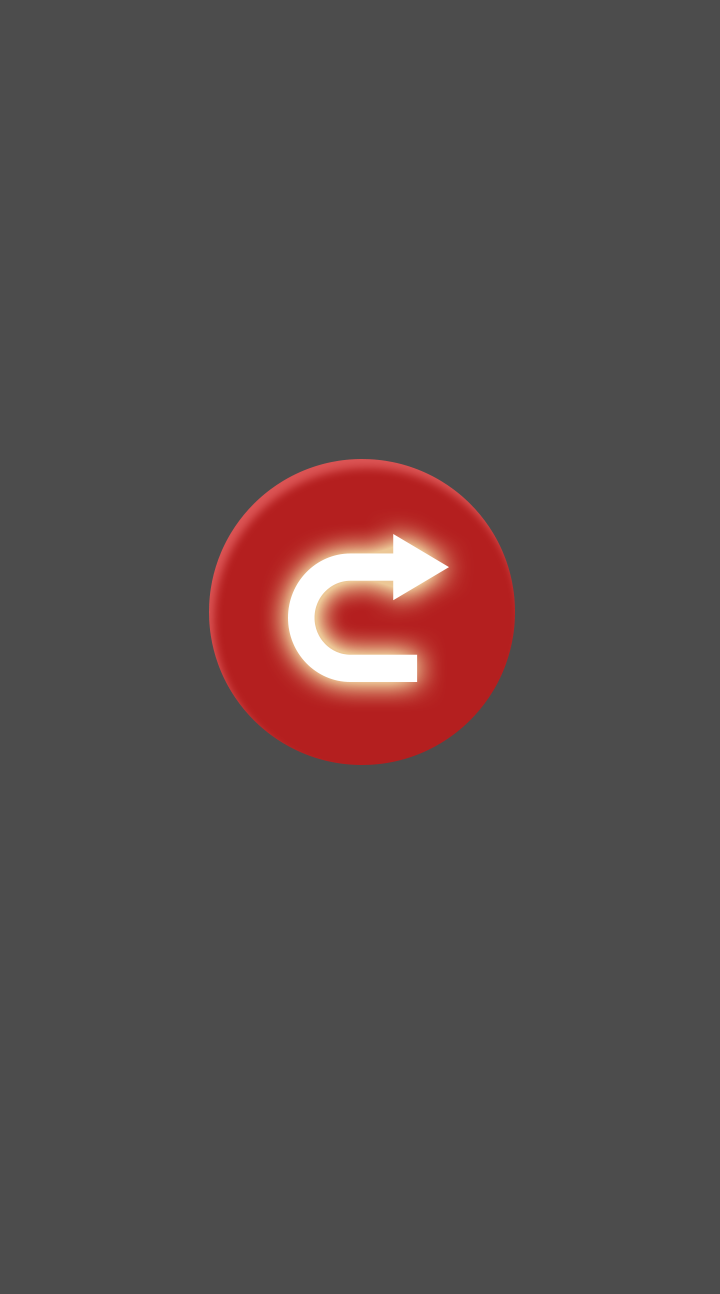
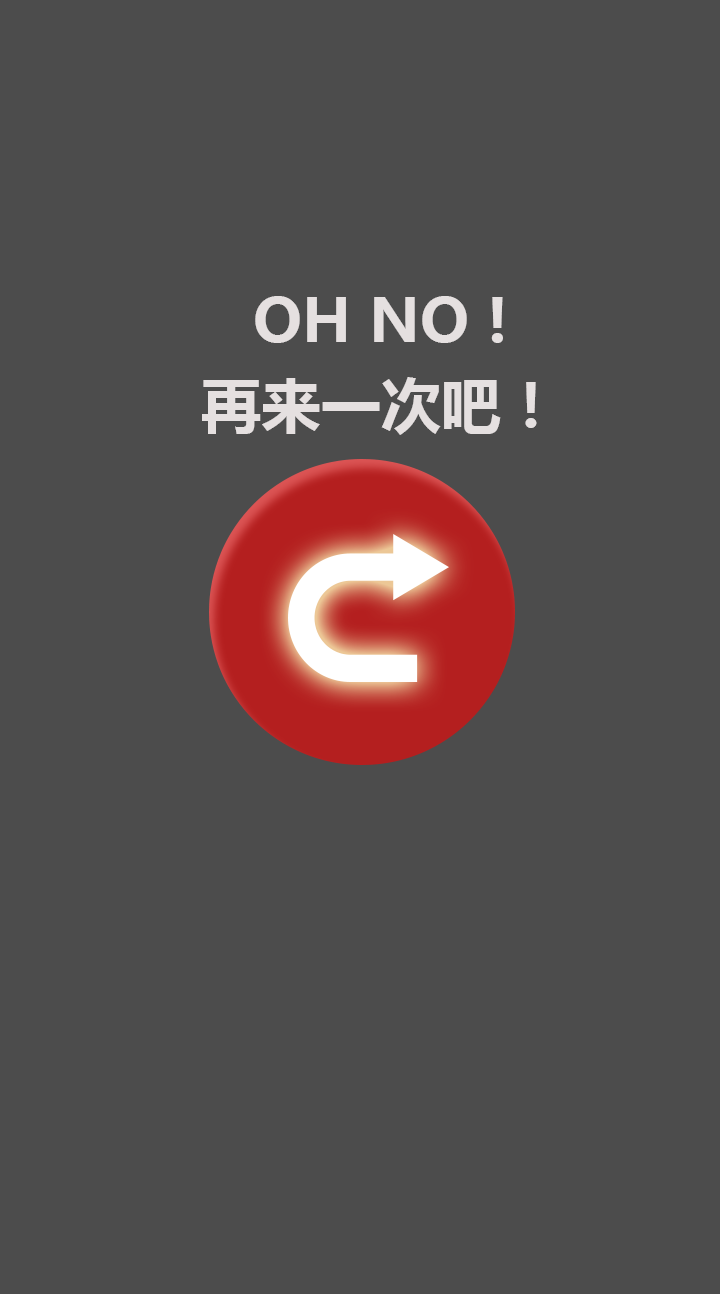
判断失败逻辑
判断失败逻辑，未完全解决，仍存在问题

Changed region(s): [[0.275, 0.2164, 0.7028, 0.34], [0.7333, 0.2782, 0.7639, 0.34]]

diff --git a/js/scene.js b/js/scene.js
@@ -139,9 +139,8 @@ var scene = new soya2d.Scene({
 
     createBalloon:function(lv){
         var _this = this;   
-
+        _this.balloons = [];
         // 保存关卡
-        console.log(lv);
         localStorage.lv = lv;
 
         _this.allStep = lv*2;
@@ -168,59 +167,61 @@ var scene = new soya2d.Scene({
             var randomRo = Math.round(Math.random()*120-60);
 
 
-            _this.balloons[i] = new soya2d.Sprite({
-                textures:balloon_tex,
-                x:randomX,
-                y:gameH*0.8,
-                w:randomW,
-                h:randomH,
-                rotation:randomRo,
-                onUpdate:function(){
-                    if(_this.gamepause == 0){
-                        this.y = this.y - gapUp;
-
-                        if(this.y < gameH*0.168*-1){
-                            _this.remove(this);
-                            _this.allStep = _this.allStep - 1
-                            _this.failballoon++;
-                            console.log('●▽● 已经有'+_this.failballoon + '个气球飞出去了 ●▽●');
-                            if(_this.allStep == 0){
-                                _this.isOver();
-                            }
-                        }
-
-                        this.rotation += rotationGap;
-                        if(this.rotation == -65){
-                            rotationGap = 0.25;
-                        }
-                        if(this.rotation == 60){
-                            rotationGap = -0.25;
-                        }
-                    }
-                    
-
-                }
-            });
-
-            
            
             (function(index){
                 index = i;
+
+                _this.balloons[index] = new soya2d.Sprite({
+                    textures:balloon_tex,
+                    x:randomX,
+                    y:gameH*0.8,
+                    w:randomW,
+                    h:randomH,
+                    rotation:randomRo,
+                    onUpdate:function(){
+                        if(_this.gamepause == 0){
+                            this.y = this.y - gapUp;
+
+                            if(this.y < gameH*0.168*-1){
+                                _this.remove(this);
+                                _this.remove(this);
+                                _this.allStep = _this.allStep - 1
+                                _this.failballoon++;
+                                console.log('●▽● 已经有'+_this.failballoon + '个气球飞出去了 ●▽●');
+
+                                if(_this.allStep == 0){
+                                    _this.isOver();
+                                }else if((_this.nowlv < 10 && _this.failballoon > 2) || (_this.failballoon > 5 && _this.nowlv < 10)){
+                                   _this.isOver();
+                                   console.log('超出了可以飘出去的气球个数');
+
+                                  
+                                }
+                            }
+
+                            this.rotation += rotationGap;
+                            if(this.rotation == -65){
+                                rotationGap = 0.25;
+                            }
+                            if(this.rotation == 60){
+                                rotationGap = -0.25;
+                            }
+                        }
+                        
+
+                    }
+                });
                  _this.balloons[index].on(tap,function(){
 
                     //创建消失的气球粒子
                     //_this.createBalloonDie(_this.balloons[index].textures,_this.balloons[index].x,_this.balloons[index].y);
 
-                    // console.log('remove balloon ' + index);
                     boon.pause();
                     boon.currentTime = 0.0; 
                     _this.remove(this);
                     boon.play();
 
                     _this.allBoon+= 1;
-
-                    // console.log(index+'isRendered()?='+_this.balloons[index].isRendered());
-                    _this.balloons[index].updateTransform();
                     _this.balloons[index].w = 0;
                     _this.balloons[index].h = 0;
                     _this.allStep = _this.allStep - 1;
@@ -245,10 +246,15 @@ var scene = new soya2d.Scene({
     //判断是否闯关失败了
     isOver:function(){
         var _this = this;
+
+        _this.loopInterval = clearInterval(_this.loopInterval);
+
+        _this.gamepause = 1;
+
         var fail = 0;
 
-        if(_this.nowlv < 10 && _this.failballoon > 0){
-            //小于10关的，如果超过0个飘出去就失败
+        if(_this.nowlv < 10 && _this.failballoon > 2){
+            //小于10关的，如果超过2个飘出去就失败
             fail = 1;
         }else if(_this.failballoon > 5){
             //大于10关的，如果超过5个飘出去了则失败
@@ -257,15 +263,33 @@ var scene = new soya2d.Scene({
         
 
         if(fail){
-
+           
             //alert('你失败了');
             _this.pauseGame();
             replaybtn.style.display = 'block';
 
+            console.log('***************');
+            console.log('已经飘出去的气球 = '+_this.failballoon);
+            console.log('已经生成的气球 = '+_this.balloons.length);
+            console.log('还在屏幕上的气球 = '+(_this.balloons.length - _this.failballoon));
+            console.log('***************');
+
+            var ben = _this.balloons.length - _this.failballoon;
+            for(var f = ben; f >=0; f--){
+                //console.log(_this.balloons[f]);
+                _this.balloons[f].remove();
+                _this.balloons[f].w = 0;
+                _this.balloons[f].h = 0;
+                _this.balloons[f].y = gameH*0.168*-1;
+            }
+
+         
+           
+           
         }else{
             levelUp.style.display = 'block';
 
-            _this.loopInterval = clearInterval(_this.loopInterval);
+            //_this.loopInterval = clearInterval(_this.loopInterval);
 
             // 等级上升1
             _this.nowlv+=1;
